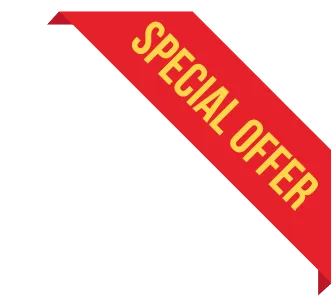
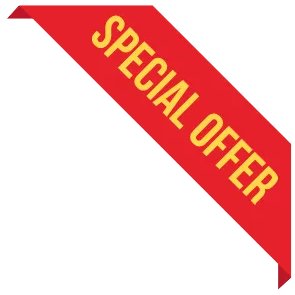
更新M88_LP

Changed region(s): [[0.0305, 0.0, 1.0, 0.9763], [0.9458, 0.4576, 0.9763, 0.4881]]

diff --git a/milyon_LP/index.html b/milyon_LP/index.html
@@ -7,6 +7,7 @@
     <link rel="preconnect" href="https://fonts.googleapis.com">
     <link rel="preconnect" href="https://fonts.gstatic.com" crossorigin>
     <link href="https://fonts.googleapis.com/css2?family=Kanit:ital,wght@0,100;0,200;0,300;0,400;0,500;0,600;0,700;0,800;0,900;1,100;1,200;1,300;1,400;1,500;1,600;1,700;1,800;1,900&display=swap" rel="stylesheet">
+    <link href="https://fonts.googleapis.com/css2?family=Mogra&display=swap" rel="stylesheet">
     <link rel="stylesheet" href="https://unpkg.com/swiper/swiper-bundle.min.css" />
     <link rel="stylesheet" href="style.css">
 </head>
@@ -185,6 +186,7 @@
                 </div>
             </div>
             <div class="page-3-b">
+                <img class="ribbon" src="images/P3/P3-12.webp" alt="">
                 <div class="page-3-b-title">
                     <h1>
                         <img class="icon-9" src="images/P3/P3-5.webp" alt="">

diff --git a/milyon_LP/style.css b/milyon_LP/style.css
@@ -369,6 +369,12 @@
     padding: 2% 3%;
     margin: auto;
 }
+.page-3-b .ribbon{
+    position: absolute;
+    top: -3.5%;
+    right: -.875%;
+    height: 60%;
+}
 .page-3-b .page-3-b-title{
     grid-column: span 2;
 }
@@ -493,6 +499,9 @@
     left: 50%;
     color: #726658;
     text-shadow: 2px 2px #ffffff;
+    font-family: "Mogra", serif;
+    font-weight: 400;
+    font-style: normal;
     font-size: calc(1.25rem + .25vw);
     transform: translateX(-50%);
 }
